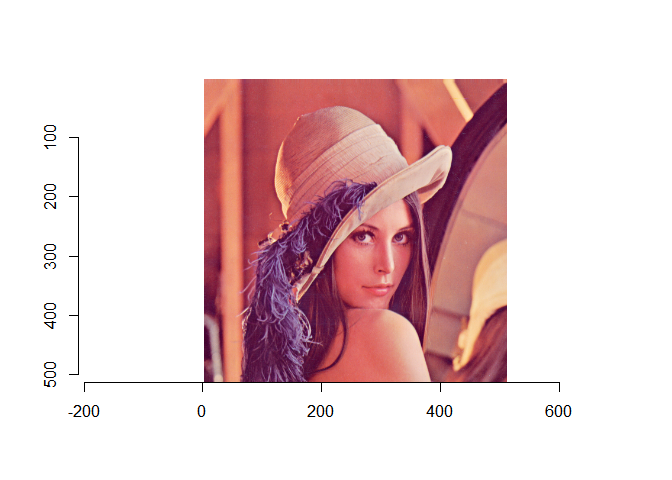
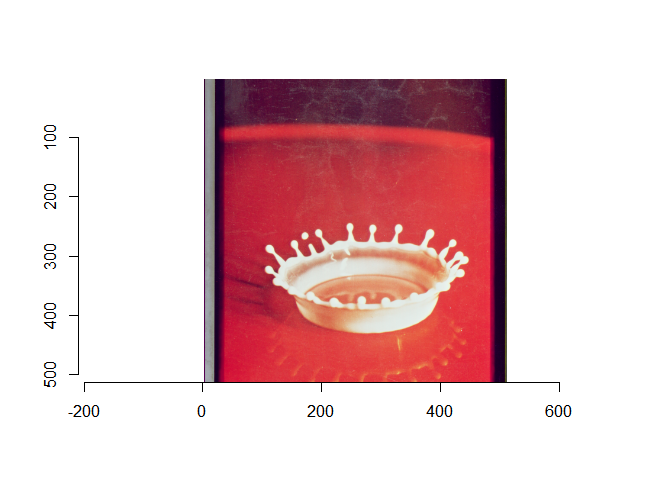
Replace lenna with splash

Changed region(s): [[0.2812, 0.1562, 0.7812, 0.8125]]

diff --git a/README.md b/README.md
@@ -22,10 +22,11 @@ library(imager)
 
 ## Import image
 
-Read in image and visualise
+Read in image and visualise. I am using the **splash** image from [The
+USC-SIPI Image Database](http://sipi.usc.edu/database/)
 
 ``` r
-img <- 'lenna.png'
+img <- 'splash.png'
 i <- imager::load.image(img)
 plot(i)
 ```
@@ -69,7 +70,6 @@ set.seed(5)
 reduced_palette <-
   colorfindr::get_colors('reduced_image.png') %>% 
   colorfindr::make_palette(target_palette_size)
-#> Warning: Quick-TRANSfer stage steps exceeded maximum (= 1170450)
 ```
 
 ![](README_files/figure-gfm/unnamed-chunk-6-1.png)<!-- -->
@@ -211,7 +211,7 @@ Zoom in
 ``` r
 last_plot() +
   scale_x_continuous(limits = c(50, 100))+
-  scale_y_reverse(limits = c(120, 70))
+  scale_y_reverse(limits = c(95, 45))
 #> Warning: Removed 84032 rows containing missing values (geom_raster).
 ```
 
